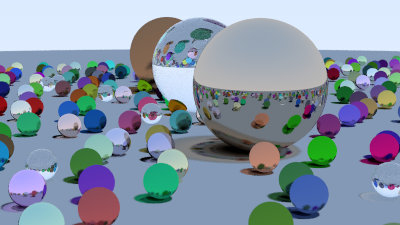
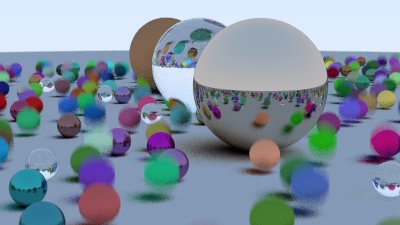
motion blur

diff --git a/src/core/camera.h b/src/core/camera.h
@@ -21,9 +21,11 @@ namespace Asuka {
             double vfov,
             double aspect_ratio,
             double aperture,
-            double focus_dist
+            double focus_dist,
+            double _time0 = 0,
+            double _time1 = 0
         ) {
-            set_parameters(cam_position, lookat, vup, vfov, aspect_ratio, aperture, focus_dist);
+            set_parameters(cam_position, lookat, vup, vfov, aspect_ratio, aperture, focus_dist, _time0, _time1);
         }
 
         void set_parameters(
@@ -33,7 +35,9 @@ namespace Asuka {
             double vfov,
             double aspect_ratio,
             double aperture,
-            double focus_dist
+            double focus_dist,
+            double _time0,
+            double _time1
         ) {
             double theta = degree_to_radian(vfov);
             double h = tan(theta / 2.0);
@@ -49,6 +53,8 @@ namespace Asuka {
             vertical = focus_dist * viewport_height * v;
             lower_left_corner = (origin - horizontal / 2.0 - vertical / 2.0 + focus_dist * w);
             lens_radius = aperture / 2.0;
+            time0 = _time0;
+            time1 = _time1;
 
             film = std::make_shared<Film>(400, 400.0 / aspect_ratio);
         }
@@ -61,7 +67,7 @@ namespace Asuka {
         Ray get_ray(const Sample& sample) const {
             vec3 rd = lens_radius * random_in_unit_disk();
             vec3 offset = u * rd.x() + v * rd.y();
-            return Ray(origin + offset, lower_left_corner + sample.u * horizontal + sample.v * vertical - origin - offset);
+            return Ray(origin + offset, lower_left_corner + sample.u * horizontal + sample.v * vertical - origin - offset, random_double(time0, time1));
         }
 
         point3 position() const { return origin; }
@@ -72,6 +78,7 @@ namespace Asuka {
         vec3 lower_left_corner;
         vec3 u, v, w;
         double lens_radius;
+        double time0, time1;
     };
 
     Camera default_camera();

diff --git a/src/core/moving_shpere.cpp b/src/core/moving_shpere.cpp
@@ -1,0 +1,44 @@
+#include "moving_sphere.h"
+
+namespace Asuka {
+
+    point3 MovingSphere::center(double time) const {
+        return center0 + ((time - time0) / (time1 - time0)) * (center1 - center0);
+    }
+
+    bool MovingSphere::hit(const Ray& ray, double t_min, double t_max) const {
+        vec3 oc = ray.origin() - center(ray.time());
+        double a = ray.direction().length_squared();
+        double half_b = dot(oc, ray.direction());
+        double c = oc.length_squared() - radius * radius;
+        double discriminant = half_b * half_b - a * c;
+        return (discriminant > 0);
+    }
+
+
+    bool MovingSphere::hitP(const Ray& ray, SurfaceInteraction& hit_point, double t_min, double t_max) const {
+        vec3 oc = ray.origin() - center(ray.time());
+        double a = ray.direction().length_squared();
+        double half_b = dot(oc, ray.direction());
+        double c = oc.length_squared() - radius * radius;
+        double discriminant = half_b * half_b - a * c;
+
+        if (discriminant < 0) return false;
+
+        double sqrtd = sqrt(discriminant);
+        double root = (-half_b - sqrtd) / a;
+
+        if (root < t_min || t_max < root) {
+            root = (-half_b + sqrtd) / a;
+            if (root < t_min || t_max < root) return false;
+        }
+
+        hit_point.time = root;
+        hit_point.p = ray.at(hit_point.time);
+        vec3 outward_normal = (hit_point.p - center(ray.time())) / radius;
+        hit_point.set_face_normal(ray, outward_normal);
+        hit_point.material = material;
+
+        return true;
+    }
+}

diff --git a/src/core/material.cpp b/src/core/material.cpp
@@ -9,7 +9,7 @@ namespace Asuka {
         if (scatter_direction.near_zero())
             scatter_direction = hit_point.normal;
 
-        scattered = Ray(hit_point.p, scatter_direction);
+        scattered = Ray(hit_point.p, scatter_direction, ray_in.time());
         attenuation = albedo;
         return true;
     }
@@ -18,7 +18,7 @@ namespace Asuka {
         color& attenuation, Ray& scattered) const {
 
         vec3 reflected = reflect(normalize(ray_in.direction()), hit_point.normal);
-        scattered = Ray(hit_point.p, reflected + fuzz * random_in_unit_sphere());
+        scattered = Ray(hit_point.p, reflected + fuzz * random_in_unit_sphere(), ray_in.time());
         attenuation = albedo;
         return (dot(scattered.direction(), hit_point.normal) > 0);
     }
@@ -38,7 +38,7 @@ namespace Asuka {
         if (cannot_refract || reflectance(cos_theta, refraction_ratio) > random_double()) direction = reflect(unit_direction, hit_point.normal);
         else direction = refract(unit_direction, hit_point.normal, refraction_ratio);
 
-        scattered = Ray(hit_point.p, direction);
+        scattered = Ray(hit_point.p, direction, ray_in.time());
         return true;
     }
 

diff --git a/src/core/moving_sphere.h b/src/core/moving_sphere.h
@@ -1,0 +1,28 @@
+#pragma once
+
+#include "material.h"
+#include "shape.h"
+
+namespace Asuka {
+
+    class MovingSphere : public Shape {
+    public:
+        MovingSphere() = default;
+
+        MovingSphere(
+            point3 cen0, point3 cen1, double _time0, double _time1, double r, std::shared_ptr<Material> m) :
+            center0(cen0), center1(cen1), time0(_time0), time1(_time1), radius(r), material(m) {};
+
+        point3 center(double time) const;
+
+        virtual bool hit(const Ray& ray, double t_min = 0, double t_max = inf) const override;
+        virtual bool hitP(const Ray& ray, SurfaceInteraction& hit_point, double t_min = 0.0001, double t_max = inf) const override;
+
+    public:
+        point3 center0, center1;
+        double time0, time1;
+        double radius;
+        std::shared_ptr<Material> material;
+    };
+
+}

diff --git a/src/core/scene.cpp b/src/core/scene.cpp
@@ -1,4 +1,5 @@
 #include "scene.h"
+#include "moving_sphere.h"
 
 namespace Asuka {
     std::shared_ptr<Scene> random_ball_scene() {
@@ -18,7 +19,8 @@ namespace Asuka {
                         // diffuse
                         auto albedo = color::random() * color::random();
                         sphere_material = std::make_shared<Lambertian>(albedo);
-                        objects->add(std::make_shared<Sphere>(center, 0.2, sphere_material));
+                        auto center2 = center + vec3(0, random_double(0, 0.5), 0);
+                        objects->add(std::make_shared<MovingSphere>(center, center2, 0.0, 1.0, 0.2, sphere_material));
                     }
                     else if (choose_mat < 0.95) {
                         // metal

diff --git a/src/core/ray.h b/src/core/ray.h
@@ -8,16 +8,19 @@ namespace Asuka {
     class Ray {
     public:
         Ray() {}
-        Ray(const point3& origin, const vec3& direction) : orig(origin), dir(normalize(direction)) {}
+        Ray(const point3& origin, const vec3& direction, double time = 0.0) :
+            orig(origin), dir(normalize(direction)), tm(time) {}
 
         point3 origin() const { return orig; }
         vec3 direction() const { return dir; }
+        double time() const { return tm; }
 
         point3 at(double t) const { return orig + t * dir; }
 
     public:
         point3 orig;
         vec3 dir;
+        double tm;
     };
 
 };

diff --git a/src/main.cpp b/src/main.cpp
@@ -11,7 +11,7 @@ int main() {
     Camera camera = default_camera();
     SamplerIntegrator integrator;
 
-    integrator.max_depth = 15;
+    integrator.max_depth = 20;
     integrator.sampler = std::make_shared<SimpleSampler>();
     integrator.sampler->samples_per_pixel = 50;
     integrator.scene = random_ball_scene();
@@ -31,7 +31,7 @@ int main() {
     // integrator.scene->objects = shapeList;
 
     integrator.Render(camera);
-    camera.save_image("D:/Code/AsukaRenderer/outputs/result.png");
+    camera.save_image("../../../../outputs/result.png");
 
 
     return 0;

diff --git a/src/core/camera.cpp b/src/core/camera.cpp
@@ -10,7 +10,7 @@ namespace Asuka {
         auto dist_to_focus = 10.0;
         auto aperture = 0.1;
 
-        return Camera(lookfrom, lookat, vup, 20, aspect_ratio, aperture, dist_to_focus);
+        return Camera(lookfrom, lookat, vup, 20, aspect_ratio, aperture, dist_to_focus, 0.0, 1.0);
     }
 
 }
